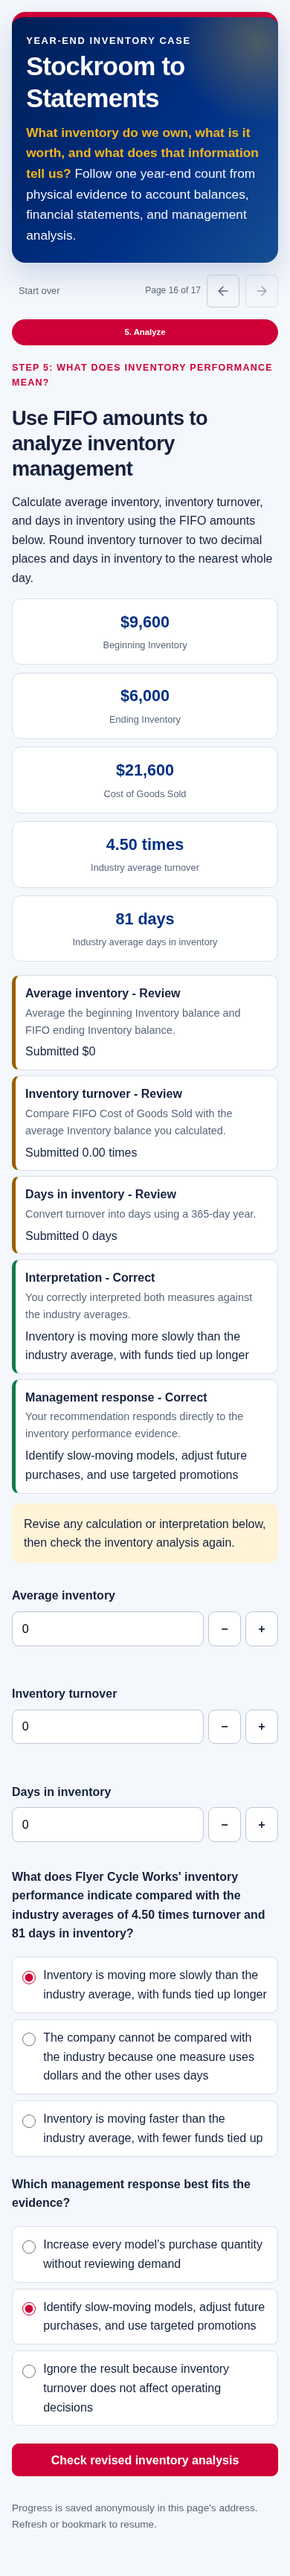
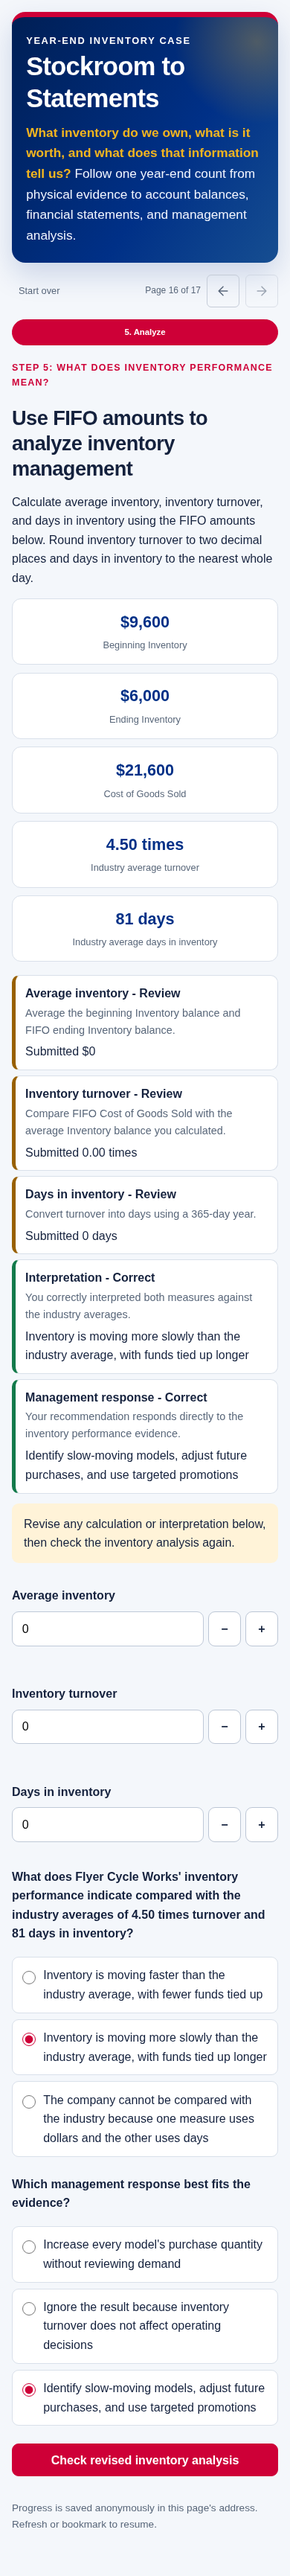
Keep inventory evidence table usable on narrow screens

diff --git a/native/app.js b/native/app.js
@@ -77,7 +77,7 @@ function table(node,index) {
     link.href=url;link.download=`${DATA.slug}-stage-${lesson.position.stage}-table-${index+1}.csv`;link.click();setTimeout(()=>URL.revokeObjectURL(url),1000);});
   tools.append(download);section.append(tools);return section;
 }
-function html(node){const template=document.createElement('template');template.innerHTML=node.text;return template.content;}
+function html(node){const template=document.createElement('template');template.innerHTML=node.text;for(const table of template.content.querySelectorAll('table')){const wrap=create('div',undefined,'table-wrap');wrap.tabIndex=0;wrap.setAttribute('role','region');wrap.setAttribute('aria-label','Case evidence table. Scroll horizontally to see every column.');table.replaceWith(wrap);wrap.append(table);}return template.content;}
 function feedback(node){
   const g=NUMBERS.find(g=>g.stage===lesson.position.stage),field=g.fields.find(([,label])=>label===node.label),choice=g.choices.find(c=>c.label===node.label),checked=numericResult(lesson.state,g);
   const correct=field?checked.fields[field[0]].correct:checked.choices[choice.key].correct;

diff --git a/native/common.js b/native/common.js
@@ -91,4 +91,3 @@ export async function shuffled(input,seed,salt) {
   if(result.length>1&&result.every((value,index)=>value===input[index]))return [...result.slice(1),result[0]];
   return result;
 }
-

diff --git a/native/tests/browser.py b/native/tests/browser.py
@@ -179,6 +179,13 @@ def main():
             for _ in range(3):
                 click(page, "Back")
                 readonly(page)
+                if page.get_by_role("table").count():
+                    page.set_viewport_size({"width": 390, "height": 844})
+                    layout(page, "narrow-evidence-table")
+                    page.screenshot(
+                        path=str(output / "evidence-table-narrow.png"), full_page=True
+                    )
+                    page.set_viewport_size({"width": 1280, "height": 900})
                 assert settle(page) == state
                 click(page, "Forward")
                 assert settle(page) == state
@@ -339,6 +346,13 @@ def main():
                 click(page, "Back")
                 settle(page, lambda s, v: v == str(position))
                 readonly(page)
+                if page.get_by_role("table").count():
+                    page.set_viewport_size({"width": 390, "height": 844})
+                    layout(page, "narrow-evidence-table")
+                    page.screenshot(
+                        path=str(output / "evidence-table-narrow.png"), full_page=True
+                    )
+                    page.set_viewport_size({"width": 1280, "height": 900})
                 if position == 1:
                     page.screenshot(path=str(output / "review.png"), full_page=True)
                 assert settle(page) == state

diff --git a/native/VALIDATION.md b/native/VALIDATION.md
@@ -10,13 +10,14 @@ October 14, 2026. The isolated `native/javascript` source branch is based on `eb
 | All 17 original positions and 51 teaching variants | Preserved; provisional branding absent | Generated content and export/CI parity |
 | Old version-2 links and exact 63-bit seed with an unfinished costing draft | Restored, future view clamped | Browser fixtures and Node parity |
 | Numeric units/ranges, unfinished and invalid draft refresh, unchanged numeric rechecks | Passed | Actual browser and action tests |
-| Original tables, native table expansion and CSV | Passed without progress mutation | Downloaded CSV evidence |
+| Original HTML method-comparison table | Preserved, including narrow-screen review | Table screenshot and browser walkthrough |
+| Downloads | Not applicable | Original app has no download controls |
 | Desktop and 390-pixel pages, including all three numeric forms; 44-pixel arrow targets and visible keyboard focus | Passed | Screenshots in `review/` |
 | Ruff, JavaScript syntax, deterministic export, build hashes and whitespace | Passed | Local checks and source CI |
 | Hosted browser, physical-device matrix and classroom concurrency | Not run | Known cloud proxy denial respected |
 
 The full walkthrough finishes with the original Python-validated score of **14/27 first-pass correct and 13 revisions** after deliberate wrong work. This includes all original 27 checkpoints. No receivables-specific curriculum changes are applied. Wrong inventory/cost/analysis inputs retain original hints rather than exposing answers. Field-level feedback uses actual submitted values and each field's original correct/incorrect explanation. The FIFO/LIFO/average-cost tabs use accessible native tab controls; tab changes and table operations do not alter progress.
 
-The seven native runtime files total 153,815 bytes. Browser results record five cache-disabled cold initializations in fresh Chromium contexts on local loopback. These measurements do not establish hosted speed, school-network behavior, physical-device performance or classroom capacity. Zero external requests, console errors and page execution errors were recorded.
+The seven native runtime files total 154,116 bytes. Browser results record five cache-disabled cold initializations in fresh Chromium contexts on local loopback. These measurements do not establish hosted speed, school-network behavior, physical-device performance or classroom capacity. Zero external requests, console errors and page execution errors were recorded.
 
 GitHub's exact source/static refs, CI and Pages deployment are verified after publication. Hosted HTTP/UI checks are unavailable because the cloud proxy previously denied the Pages hostname with tunnel 403; no alternative route is used.

diff --git a/native/README.md b/native/README.md
@@ -4,7 +4,7 @@ The final student app is published under `/js/` in the existing repository. It u
 
 The native implementation preserves the inventory lesson: all ownership decisions, physical-count reconciliation, shrinkage effects, three cost-flow method tabs, statement reasoning, inventory analysis, and the completed debrief. `export.py` captures all 17 original teaching positions in unanswered, incorrect and correct states without changing Python teaching content. Native calculation and randomization tests compare independent Python outcomes, including exact 63-bit shuffle seeds and ties-to-even whole-dollar rounding.
 
-Back reviews earlier reached pages without editing, submitting, revealing hints, resetting or changing scores. Forward stops at the current earned page. The original validated Continue/Finish controls advance. The action model guards these rules independently of the rendered controls. Cost-method tabs, table sorting/expansion and CSV downloads change presentation only.
+Back reviews earlier reached pages without editing, submitting, revealing hints, resetting or changing scores. Forward stops at the current earned page. The original validated Continue/Finish controls advance. The action model guards these rules independently of the rendered controls. Cost-method tabs change presentation only. The original static HTML method-comparison table is preserved; this app has no original download controls to migrate.
 
 Original version-2 Python/stlite `progress` links restore after changing the path to `/js/`, retaining their query parameters, drafts, seed, answers, scoring and review position. Ordinary native snapshots use the same version-2 schema and are accepted by the original Python validator. Attempts above the old saved limit of 99 upgrade to native version 3 so practice history remains refreshable; those extended links require this JavaScript app. A separate bounded `draft` query parameter preserves unfinished numeric formatting and invalid numeric text without accepting names or arbitrary text. Invalid or future state is rejected; a future view is clamped to the earned page. Reset creates a fresh anonymous seed and progress URL. Tabs and browser contexts remain independent.
 
